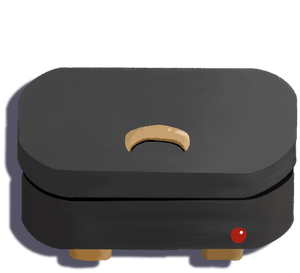
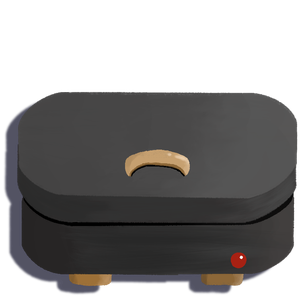
Open waffle machine: the standing lid taller than the top face (1.18 of it; owner ticked bigger still), canvas 300 x 298 with headroom, waffleHeight 0.66 so the base keeps its size

diff --git a/Assets/Scripts/Food/IceCreamStation.cs b/Assets/Scripts/Food/IceCreamStation.cs
@@ -40,7 +40,7 @@ public class IceCreamStation : MonoBehaviour
     public Rect smallHolderRect;
     public Vector2 smallBuildPoint = new Vector2(0.27f, 1.22f);
     [Header("Waffle machine on the table (owner, 25 October 2026: beside the cone stack, the cast-iron one, smaller)")]
-    public float waffleHeight = 0.60f;                       // its height as a share of the box picture's height (owner, 25 October afternoon: bigger; was 0.38; 0.58 since the owner's own drawing, whose canvas has more air above the machine; 0.60 for the 300 x 273 canvas of the full-height open lid, so the base keeps its size)
+    public float waffleHeight = 0.66f;                       // its height as a share of the box picture's height (owner, 25 October afternoon: bigger; was 0.38; 0.58 since the owner's own drawing, whose canvas has more air above the machine; 0.66 for the 300 x 298 canvas of the open lid taller than the top face, so the base keeps its size)
     public float waffleGap = 0.02f;                           // gap above the cone row, a fraction of the box picture's height
     public float waffleShift = -0.01f;                      // sideways from the row's centre, a fraction of the box width (owner, 25 October: "move it to the left a little", centred on the six cones)
     public const int WafflesPerSession = 2; public const float WaffleSeconds = 8f;   // one session bakes two cones in 8 s (owner, 25 October)
